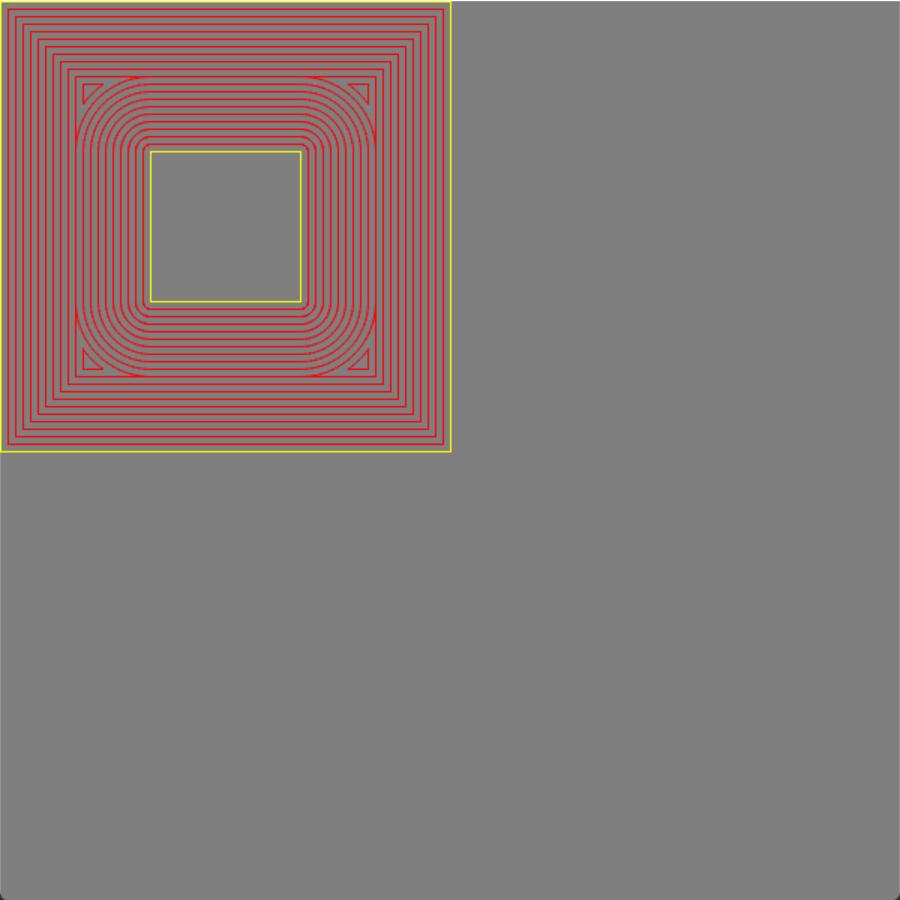
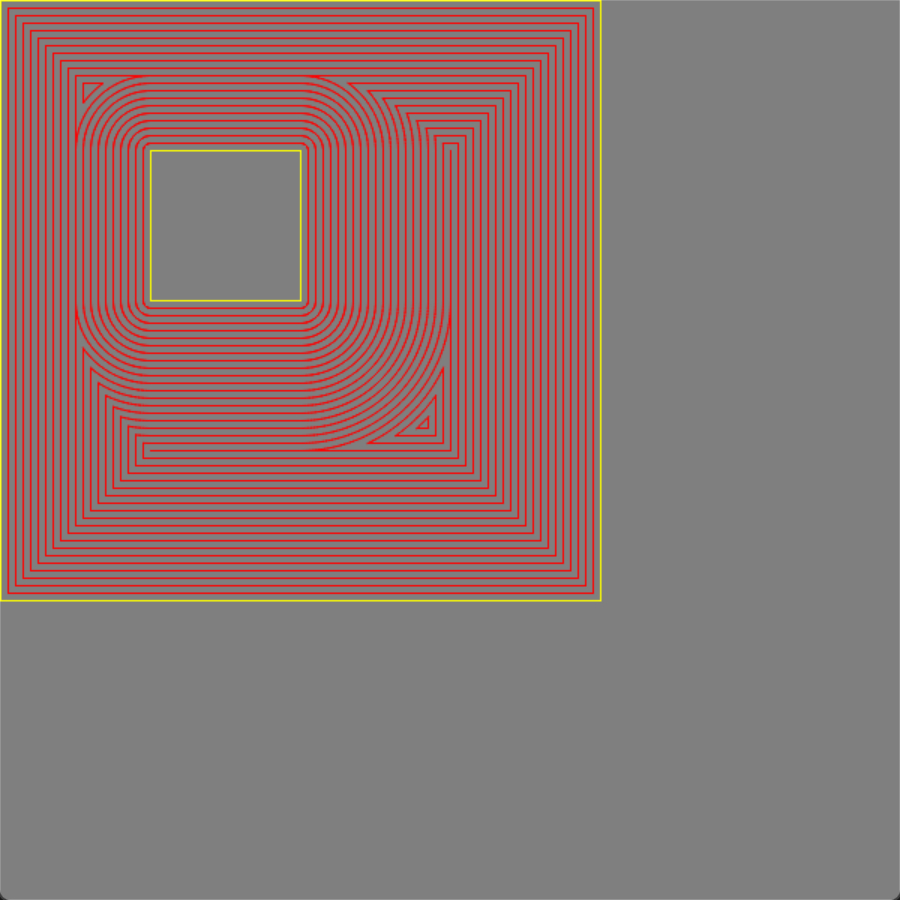
change arc fitting method. solve problem when outline is 0,400,400,0

Changed region(s): [[0.0, 0.0, 0.6844, 0.6844], [0.9956, 0.9956, 1.0, 1.0]]

diff --git a/contour_ex.cpp b/contour_ex.cpp
@@ -9,6 +9,50 @@
 #include <glm/glm.hpp>
 #include <glm/gtc/constants.hpp>
 #include "glm-aabb/aabb.hpp"
+#include "cavc/mathutils.hpp"
+
+bool splinePts(cavc::Polyline<double>& pline,std::size_t i, std::size_t j,std::vector<glm::vec2>& ptContainers) {
+	const auto& v1 = pline[i];
+	const auto& v2 = pline[j];
+	std::vector<glm::vec2> points;
+	if (v1.bulgeIsZero() || fuzzyEqual(v1.pos(), v2.pos())) {
+		ptContainers.emplace_back(glm::vec2(v1.x(), v1.y()));
+	}
+	else {
+
+		auto arc = arcRadiusAndCenter(v1, v2);
+
+		double arcApproxError = 0.005;
+		if (arc.radius < arcApproxError + cavc::utils::realThreshold<double>()) {
+			ptContainers.emplace_back(v1.x(), v1.y());
+			return true;
+		}
+
+		auto startAngle = angle(arc.center, v1.pos());
+		auto endAngle = angle(arc.center, v2.pos());
+		double deltaAngle = std::abs(cavc::utils::deltaAngle(startAngle, endAngle));
+
+		double segmentSubAngle = std::abs(2.0 * std::acos(1.0 - arcApproxError / arc.radius));
+		std::size_t segmentCount = static_cast<std::size_t>(std::ceil(deltaAngle / segmentSubAngle));
+		// update segment subangle for equal length segments
+		segmentSubAngle = deltaAngle / segmentCount;
+
+		if (v1.bulge() < 0.0) {
+			segmentSubAngle = -segmentSubAngle;
+		}
+		// add the start point
+		ptContainers.emplace_back(v1.x(), v1.y());
+
+		// add remaining points
+		for (std::size_t i = 1; i < segmentCount; ++i) {
+			double angle = i * segmentSubAngle + startAngle;
+			ptContainers.emplace_back(arc.radius * std::cos(angle) + arc.center.x(),
+				arc.radius * std::sin(angle) + arc.center.y());
+		}
+	}
+
+	return true;
+};
 
 //#include <fmt/core.h>
 int main()
@@ -21,9 +65,9 @@ int main()
 
     cavc::Polyline<double> outline;
 	outline.addVertex(0, 0, 0);
-	outline.addVertex(0, 300, 0);
-	outline.addVertex(300, 300, 0);
-	outline.addVertex(300, 0, 0);
+	outline.addVertex(0, 400, 0);
+	outline.addVertex(400, 400, 0);
+	outline.addVertex(400, 0, 0);
     outline.isClosed() = true;
     cavc::invertDirection(outline);
     m_ccwLoops.push_back(outline);
@@ -60,7 +104,7 @@ int main()
         loopSet.cwLoops.push_back({0,loop,createApproxSpatialIndex(loop)});
     }
 
-	int m_offsetCount = 15;
+	int m_offsetCount = 25;
 	float m_offsetDelta = 5.0;
 	int i = 0;
 
@@ -279,6 +323,8 @@ int main()
 				}
 			}
         }
+
+#if 0
         for(auto lines : lists)
         {
             for(auto& line : lines)
@@ -301,6 +347,47 @@ int main()
 			    }
 		    }
         }
+
+#else
+		for (auto lines : lists)
+		{
+			for (auto& line : lines)
+			{
+				std::vector<glm::vec2> pts;
+
+				auto m_vertexes = line.vertexes();
+				if (m_vertexes.size() < 2) {
+					continue;;
+				}
+				std::size_t i;
+				std::size_t j;
+				if (line.isClosed()) {
+					i = 0;
+					j = m_vertexes.size() - 1;
+				}
+				else {
+					i = 1;
+					j = 0;
+				}
+
+				while (i < m_vertexes.size()) {
+					splinePts(line, j, i, pts);
+					//visitor(j, i)
+					j = i;
+					i = i + 1;
+				}
+
+				//draw pt
+				for(int k=0;k<pts.size();k++)
+				{
+					auto pt0 = pts[k];
+					auto pt1 = pts[(k + 1) % pts.size()];
+					buf.draw_line(pt0.x, pt0.y, pt1.x, pt1.y, red);
+				}
+			}
+		}
+
+#endif
         
         canvas::get_frame().stretch(buf);
 
